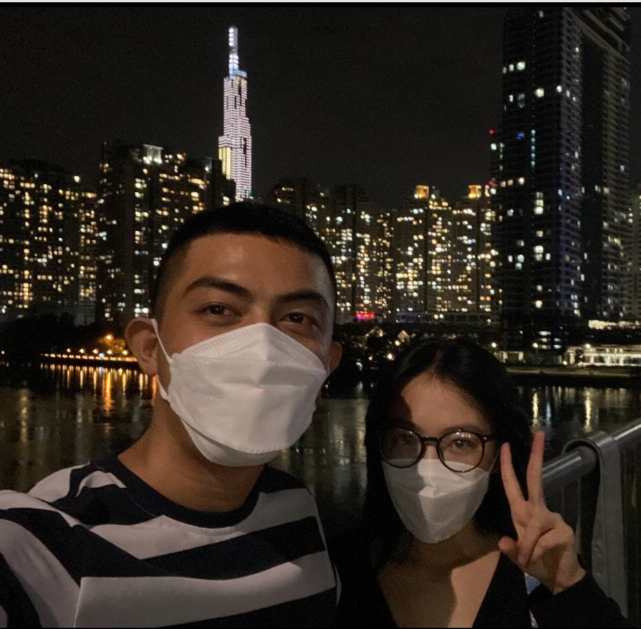
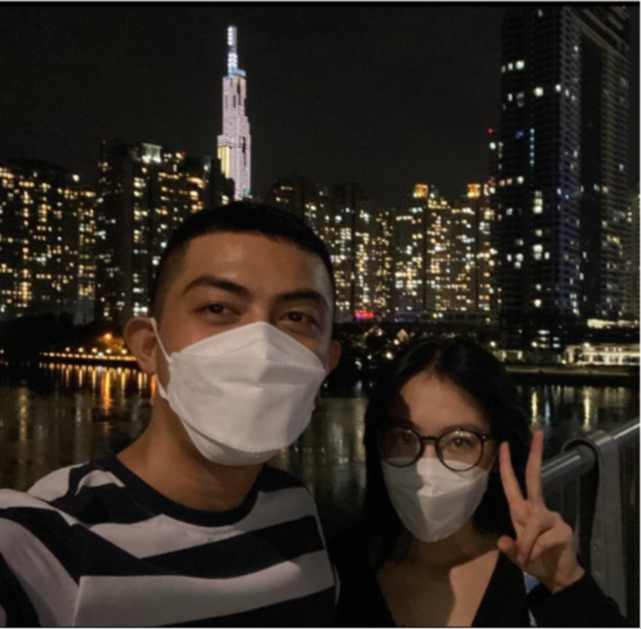
chore: downsize image

diff --git a/src/app/page.tsx b/src/app/page.tsx
@@ -1,9 +1,7 @@
 'use client';
 
 import About from "@/app/components/about";
-import Story from "@/app/components/story";
 import Menu from "@/app/components/menu";
-import Gallery from "@/app/components/gallery";
 import Banner from "@/app/components/banner";
 import Event from "@/app/components/event";
 import {useRef} from "react";
@@ -60,11 +58,11 @@ export default function Home() {
             </div>
 
             <div ref={storyRef}>
-                <Story/>
+                {/*<Story/>*/}
             </div>
 
             <div ref={galleryRef}>
-                <Gallery/>
+                {/*<Gallery/>*/}
             </div>
 
             <div ref={eventRef}>

diff --git a/src/app/components/banner.tsx b/src/app/components/banner.tsx
@@ -21,7 +21,7 @@ export default function Banner() {
 
     return (
         <div className='relative'>
-            <img className='h-screen w-screen object-center object-cover' src='/DSC06624.png' alt='banner'/>
+            <img className='h-screen w-screen object-center object-cover' src='/DSC06624-2.jpg' alt='banner'/>
             <div
                 className="z-20 flex-col absolute bottom-16 left-0 flex w-full items-center justify-center gap-7 font-mono text-sm">
                     <span
